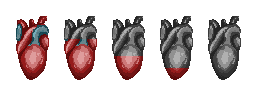
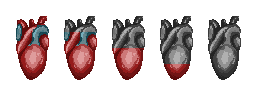
Health UI Done

Changed region(s): [[0.4375, 0.5, 0.5625, 0.5938], [0.25, 0.3125, 0.375, 0.4062], [0.625, 0.6562, 0.75, 0.7188]]

diff --git a/Assets/Scripts/HealthUI.cs b/Assets/Scripts/HealthUI.cs
@@ -1,0 +1,46 @@
+using System.Collections;
+using System.Collections.Generic;
+using UnityEngine;
+using UnityEngine.UI;
+
+public class HealthUI : MonoBehaviour
+{
+    [SerializeField] private Image currentDisplayedImage;
+
+    [SerializeField] private Sprite fullHealth;
+    [SerializeField] private Sprite ThirdHealth;
+    [SerializeField] private Sprite SecondHealth;
+    [SerializeField] private Sprite FirstHealth;
+    [SerializeField] private Sprite NoHealth;
+
+    [SerializeField] private GameObject playerHealth;
+
+    // Start is called before the first frame update
+    void Start()
+    {
+        
+    }
+
+    // Update is called once per frame
+    void Update()
+    {
+        switch(playerHealth.GetComponent<Health>().currHP)
+        {
+            case 5:
+                currentDisplayedImage.sprite = fullHealth;
+                break;
+            case 4:
+                currentDisplayedImage.sprite = ThirdHealth;
+                break;
+            case 3:
+                currentDisplayedImage.sprite = SecondHealth;
+                break;
+            case 2:
+                currentDisplayedImage.sprite = FirstHealth;
+                break;
+            case 1:
+                currentDisplayedImage.sprite = NoHealth;
+                break;
+        }
+    }
+}

diff --git a/Assets/Scripts/Player/PlayerController.cs b/Assets/Scripts/Player/PlayerController.cs
@@ -118,20 +118,16 @@ public class PlayerController : MonoBehaviour
         {
             animator.SetBool("run", true);
         }
-        else if (!grounded && jumping)
+        else if (verticalVel > 0f)
         {
             animator.SetBool("jump", true);
+            animator.SetBool("run", false);
         }
-        else if (!grounded && falling)
+        else if (!grounded && verticalVel <= 0f)
         {
             animator.SetBool("fall", true);
             animator.SetBool("jump", false);
-        } else if ((jumping || falling) && grounded && verticalVel <= 0f)
-        {
-            Debug.Log("here");
-            animator.SetBool("fall", false);
-            animator.SetBool("landed", true);
-        }
+        } 
     }
     #endregion
 
@@ -323,7 +319,7 @@ public class PlayerController : MonoBehaviour
             fastFallTime = 0f;
             isPastApexThreshold = false;
             jumpsUsed = 0;
-            
+            animator.SetBool("fall", false);
             verticalVel = 0f;
         }
     }

diff --git a/Assets/Scripts/Health.cs b/Assets/Scripts/Health.cs
@@ -5,7 +5,7 @@ using UnityEngine.SceneManagement;
 
 public class Health : MonoBehaviour
 {
-    private float currHP;
+    public float currHP;
     [SerializeField] private float MAX_HP = 3f;
 
     private SpriteRenderer spriteRenderer;
